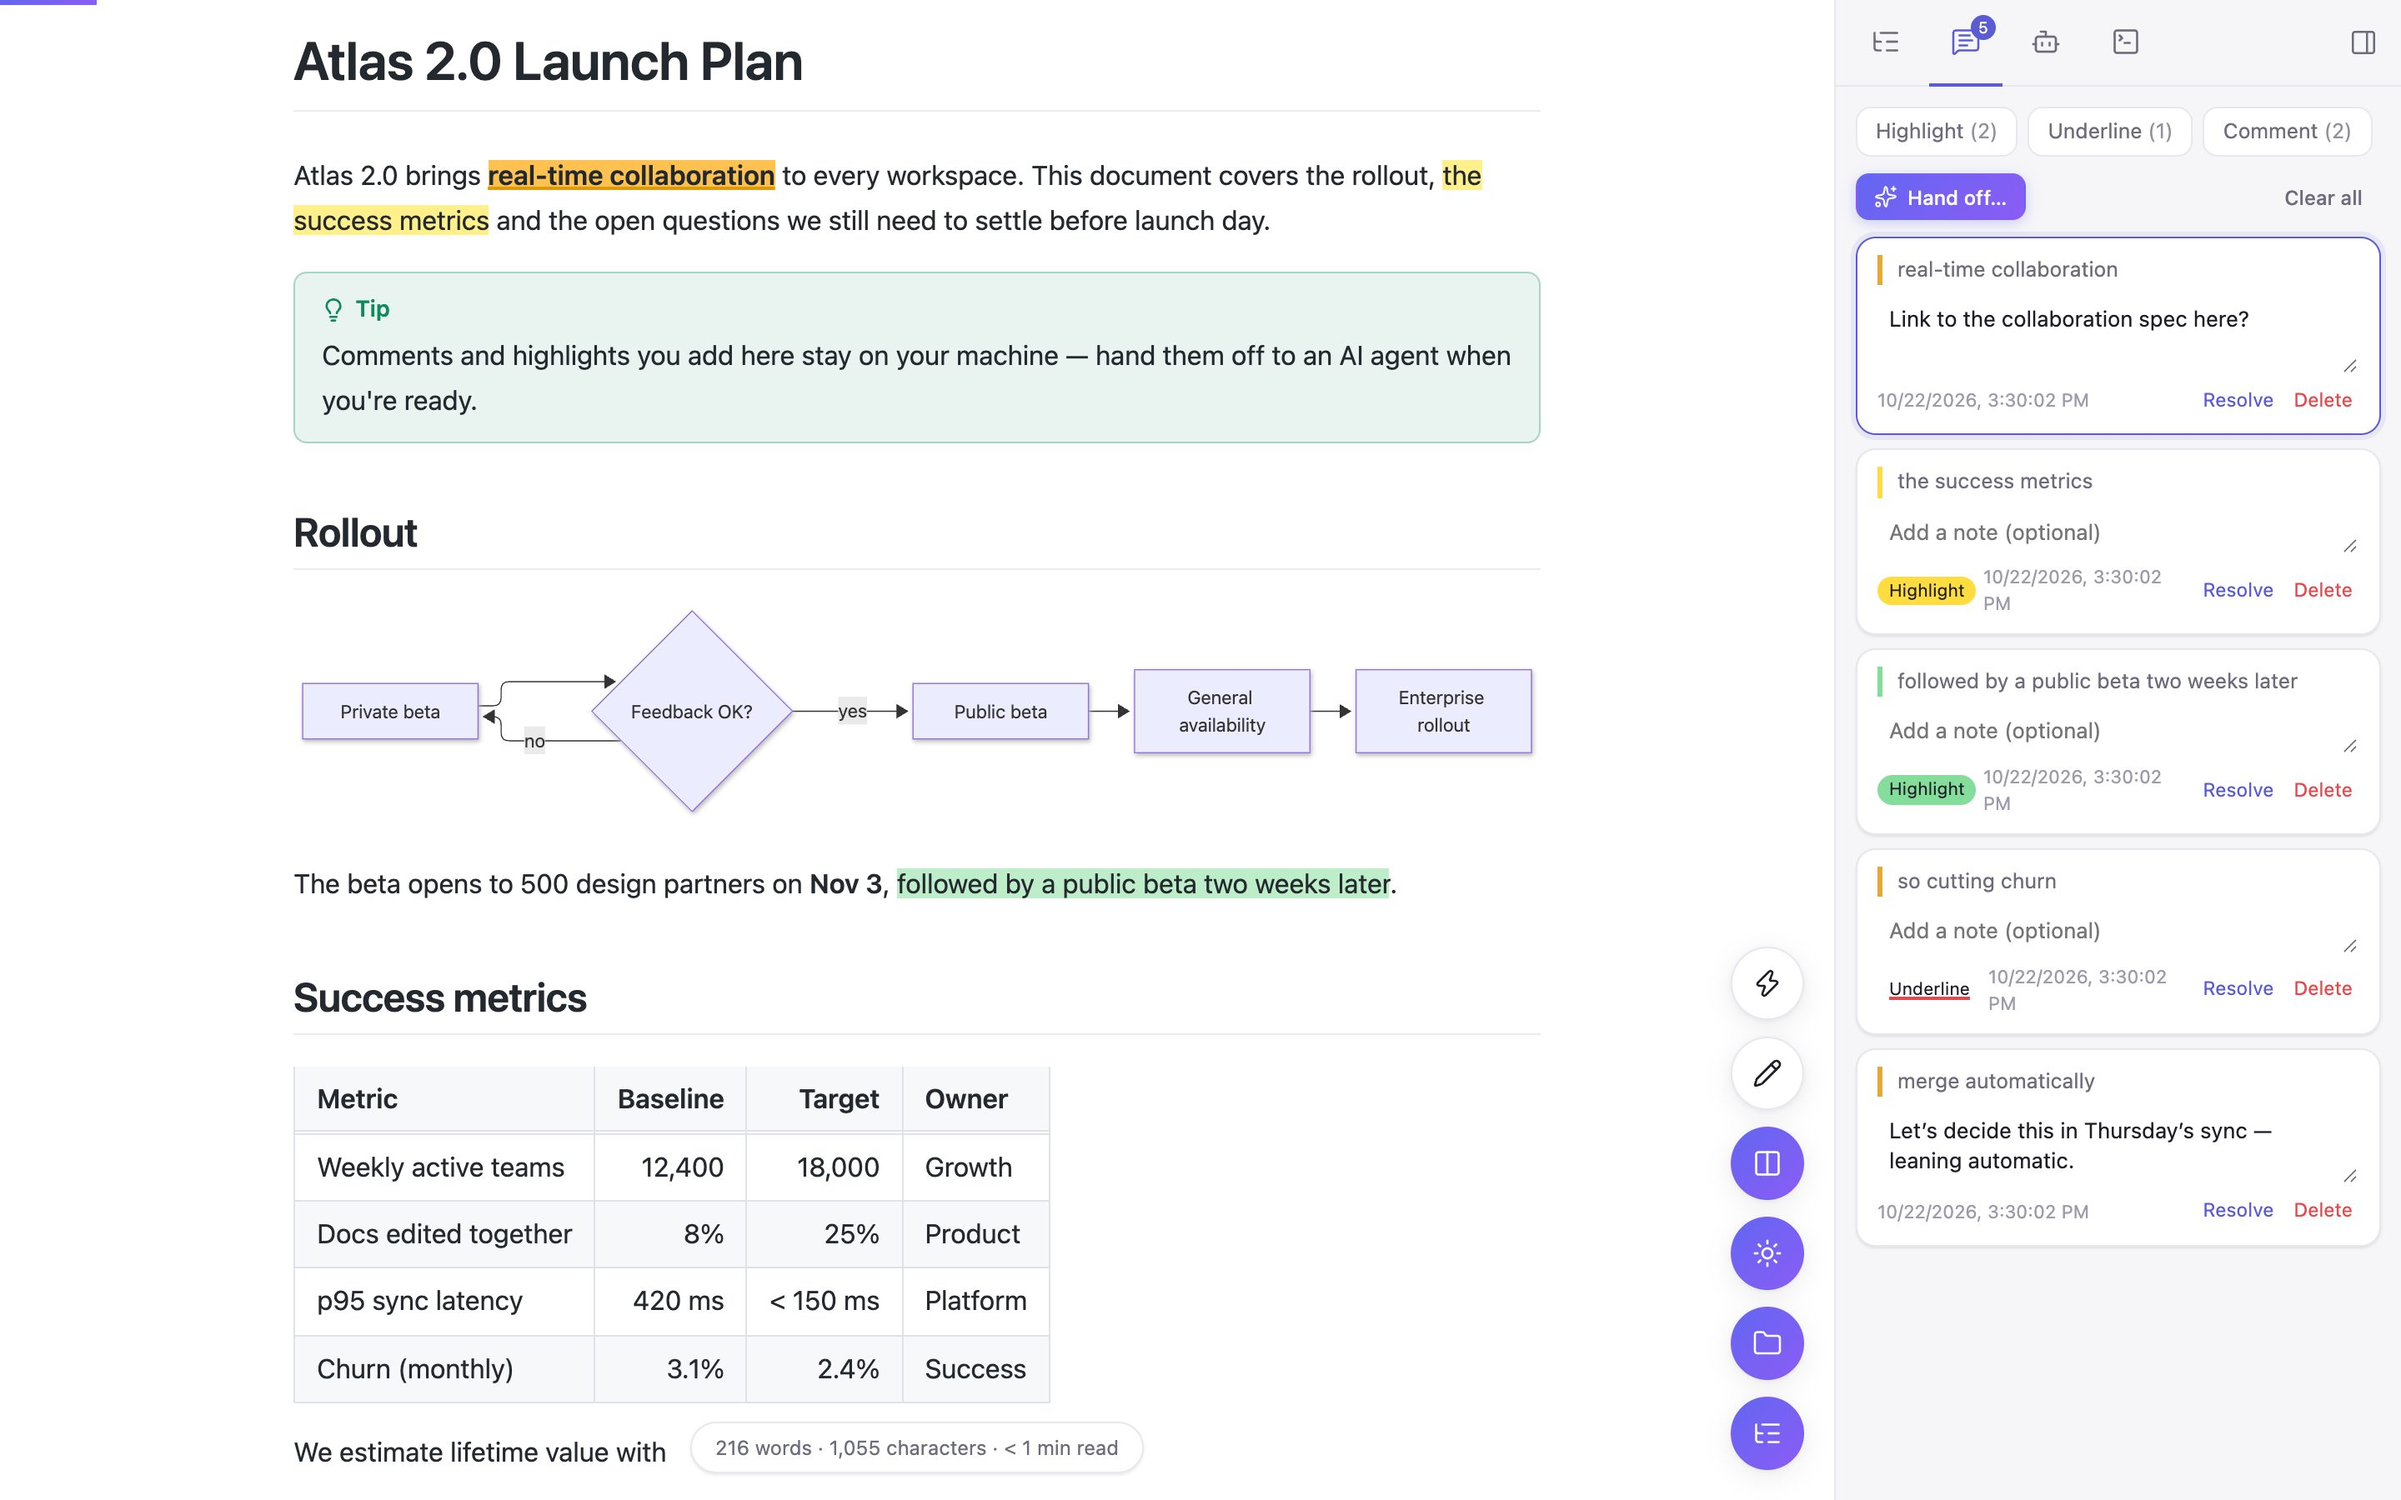
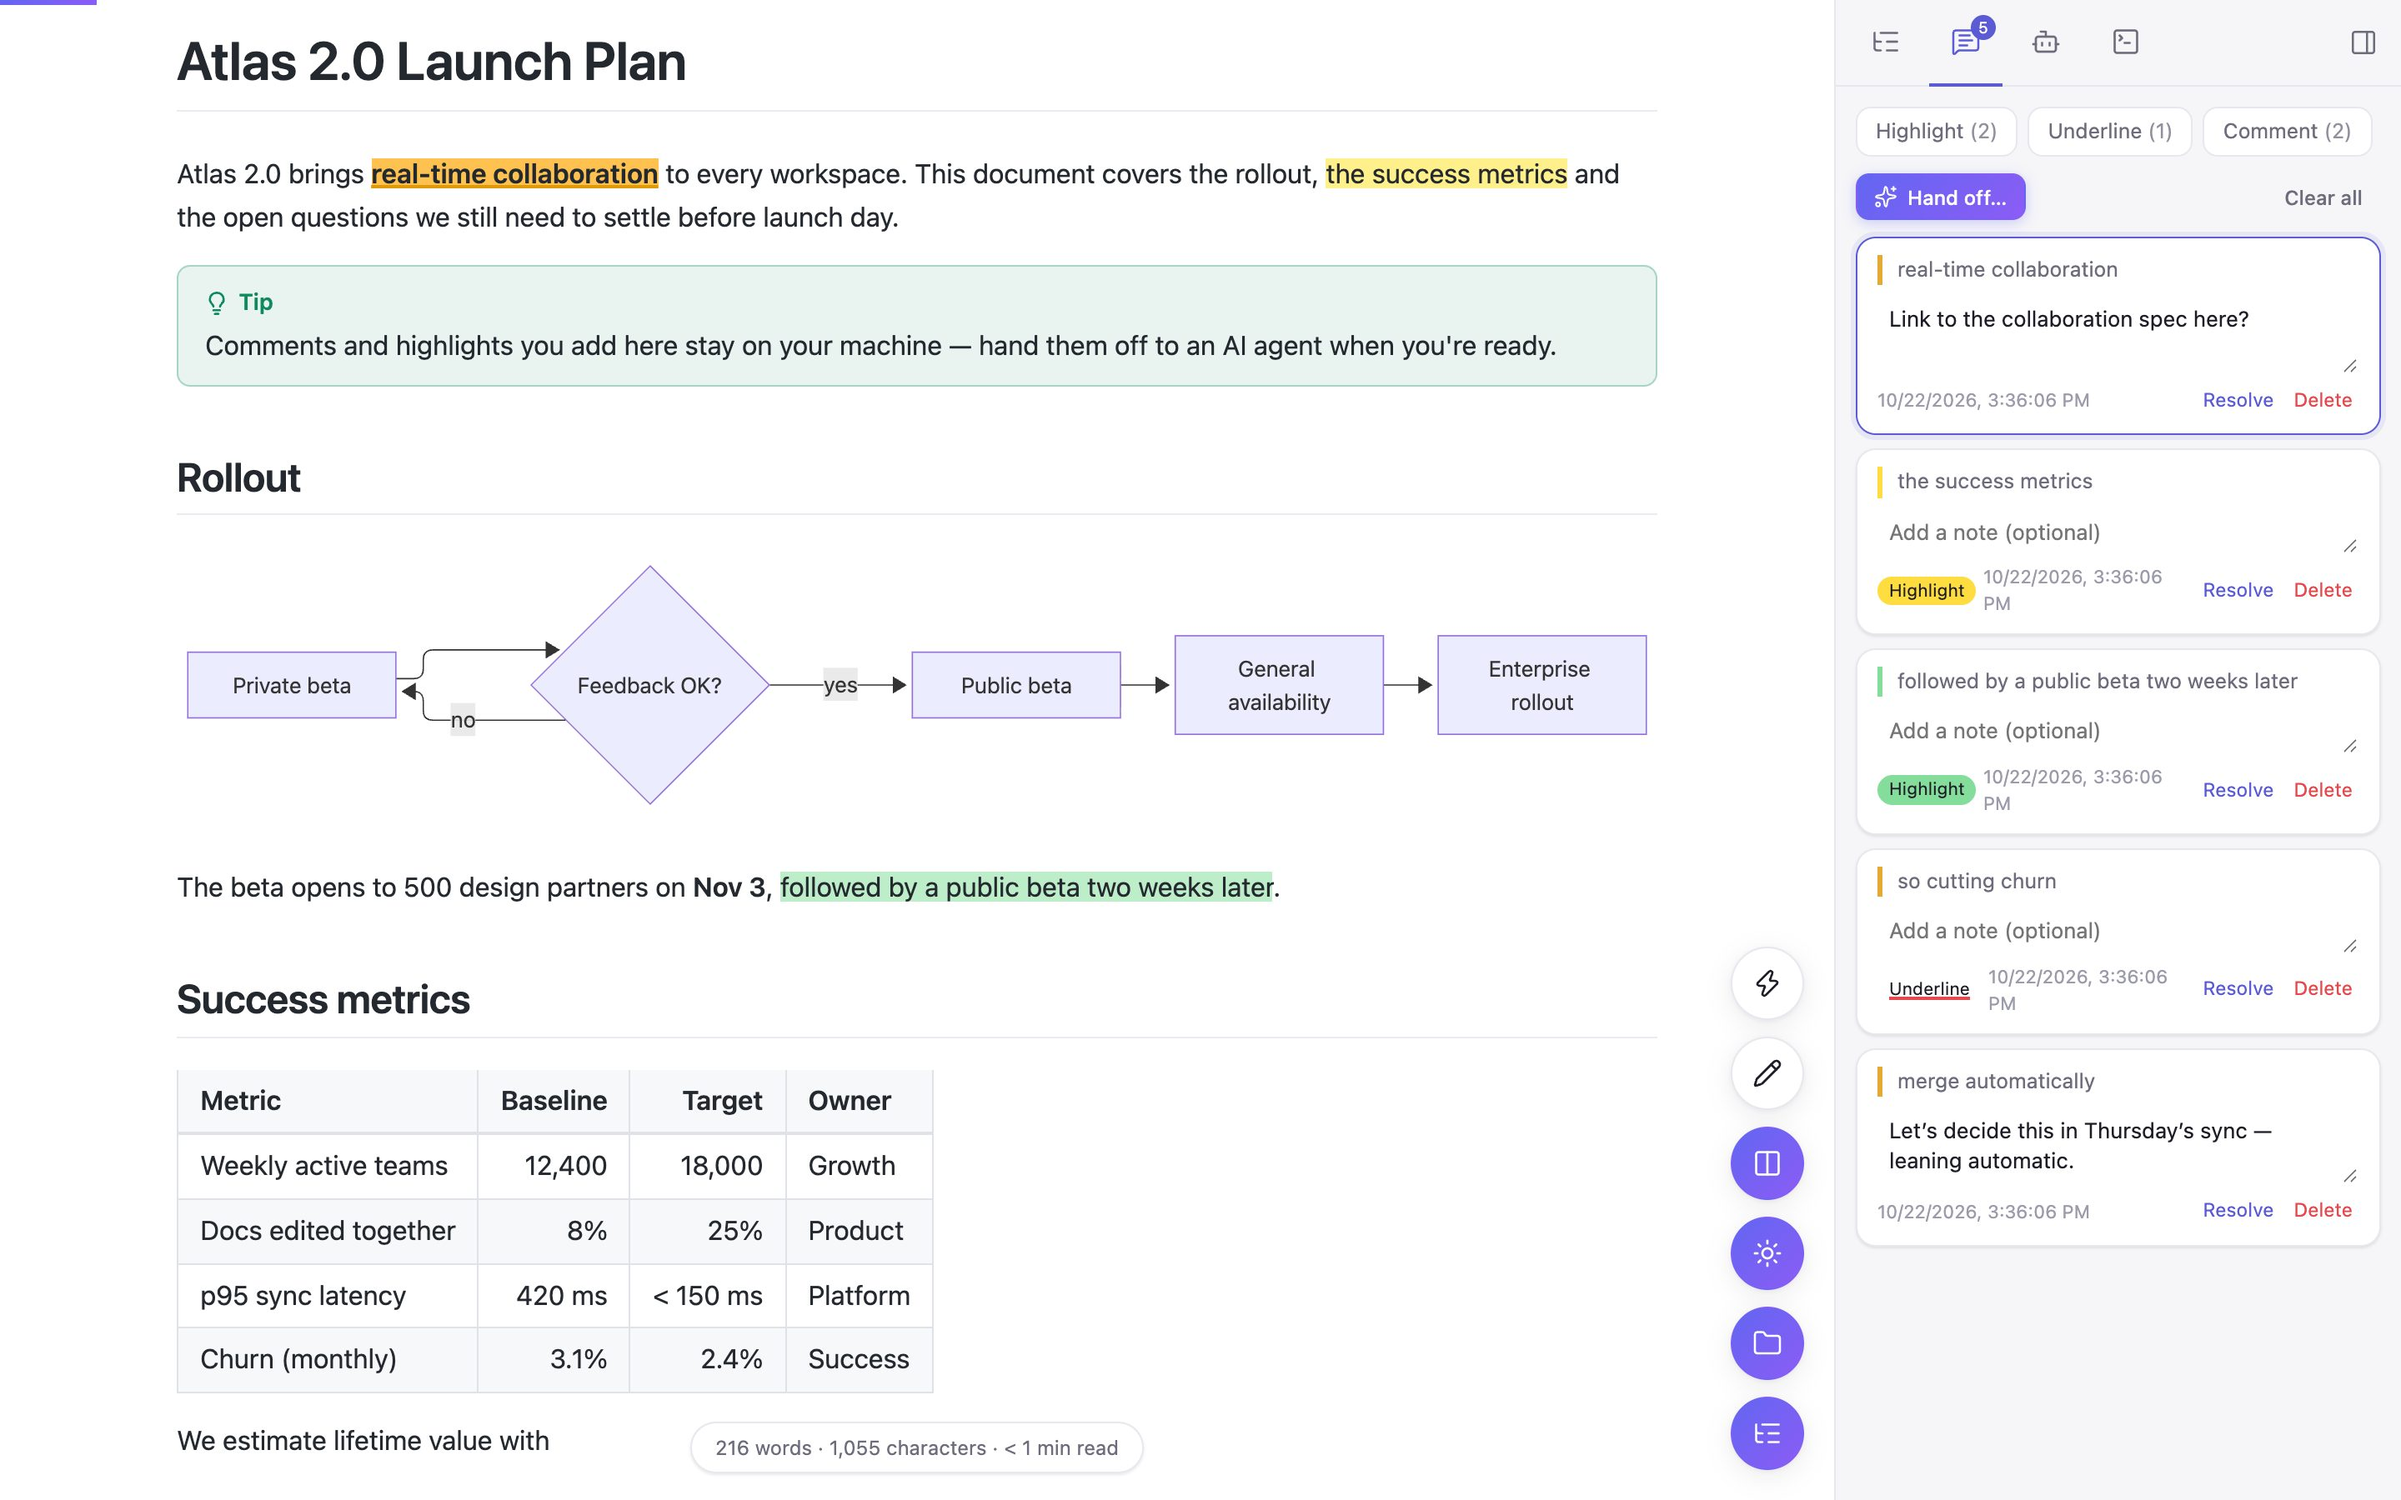
Flat Mermaid diagrams, 1000px width and 1.6 line height by default
Mermaid 12 draws drop shadows on nodes; turn them off in both themes and
give diagrams vertical breathing room.

diff --git a/src/viewer/content.css b/src/viewer/content.css
@@ -33,10 +33,10 @@
   --hl-del-bg: #ffebe9;
   --hl-del: #82071e;
   --content-font: -apple-system, BlinkMacSystemFont, 'Segoe UI', 'PingFang SC', 'Hiragino Sans GB', 'Microsoft YaHei', 'Noto Sans', Helvetica, Arial, sans-serif, 'Apple Color Emoji', 'Segoe UI Emoji';
-  --content-line: 1.7;
+  --content-line: 1.6;
   --mono: ui-monospace, SFMono-Regular, 'SF Mono', Menlo, Consolas, 'Liberation Mono', monospace;
   --content-size: 16px;
-  --content-width: 860px;
+  --content-width: 1000px;
   --inline-code-fg: #5054c4;
   --table-head: #f6f8fa;
 }
@@ -244,8 +244,9 @@
 .markdown-body .math-block { overflow-x: auto; overflow-y: hidden; text-align: center; }
 .markdown-body .katex { font-size: 1.1em; }
 .markdown-body .math-error { color: var(--caution); }
-.markdown-body .diagram { position: relative; text-align: center; overflow-x: auto; }
+.markdown-body .diagram { position: relative; text-align: center; overflow-x: auto; margin: 1.5em 0; }
 .markdown-body .diagram svg { max-width: 100%; height: auto; }
+.markdown-body .mermaid-diagram svg * { filter: none !important; }
 .markdown-body .wavedrom-diagram svg { background: transparent; }
 .markdown-body .diagram-error-msg { color: var(--caution); font-size: 0.85em; text-align: left; margin-bottom: 0.5em; }
 .markdown-body .diagram-error-msg.notice-msg { color: var(--muted); }

diff --git a/src/viewer/diagrams.js b/src/viewer/diagrams.js
@@ -19,6 +19,8 @@ async function mermaid(source, dark, _settings, plain = false) {
   const m = await mermaidP;
   m.initialize({
     startOnLoad: false, securityLevel: 'strict', theme: dark ? 'dark' : 'default', fontFamily: 'inherit',
+    // Mermaid 12 adds drop shadows to nodes; keep diagrams flat.
+    themeVariables: { dropShadow: 'none' },
     // Plain SVG text labels (no foreignObject) so the diagram can be rasterized for export.
     htmlLabels: !plain, flowchart: { htmlLabels: !plain },
   });

diff --git a/src/shared/settings.js b/src/shared/settings.js
@@ -38,8 +38,8 @@ export const DEFAULTS = {
   // Appearance
   fontFamily: 'system',
   fontSize: 16,
-  lineHeight: 1.7,
-  contentWidth: 860,
+  lineHeight: 1.6,
+  contentWidth: 1000,
   layout: 'centered', // centered | full
   syntaxTheme: 'auto',
   codeWrap: 'scroll', // scroll | wrap
